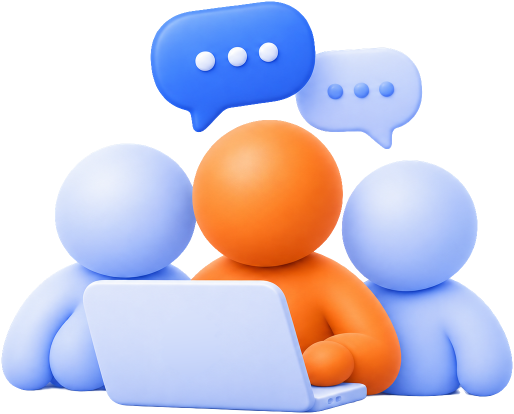
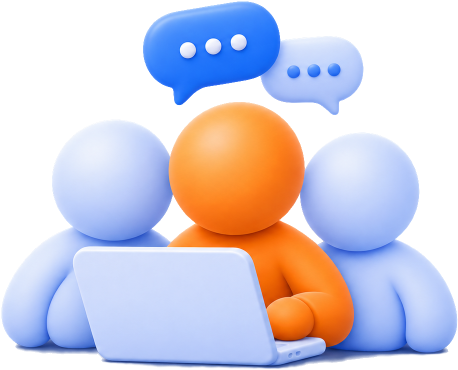
Replace the team project illustration

diff --git a/cabinet.html b/cabinet.html
@@ -86,7 +86,7 @@
           <div class="tile__bar" role="progressbar" aria-label="Участников подтвердили" aria-valuemin="0" aria-valuemax="3" aria-valuenow="2"><span style="width:66.667%"></span></div>
           <a class="tile__link" href="#team" aria-label="Заполнить: командный проект">Заполнить<svg class="icon" aria-hidden="true"><use href="#i-arrow-up"/></svg></a>
         </div>
-        <img class="tile__art" src="assets/cabinet/project-team.png?v=4" width="514" height="414" alt="">
+        <img class="tile__art" src="assets/cabinet/project-team.png?v=5" width="458" height="370" alt="">
       </article>
     </div>
   </section>
